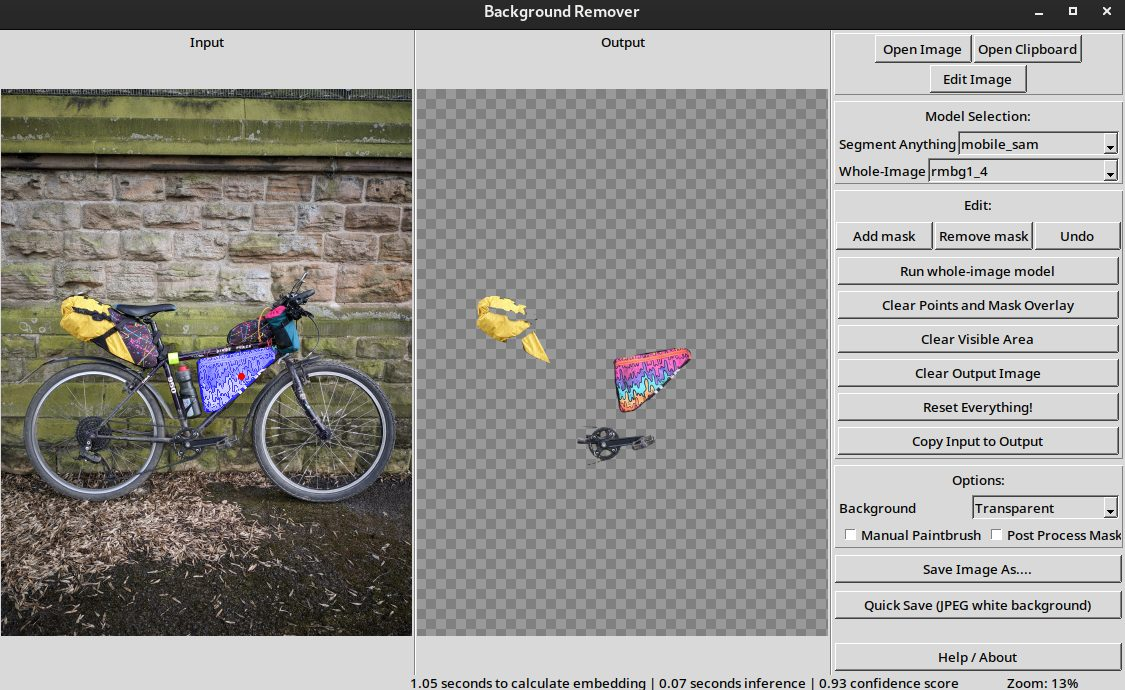
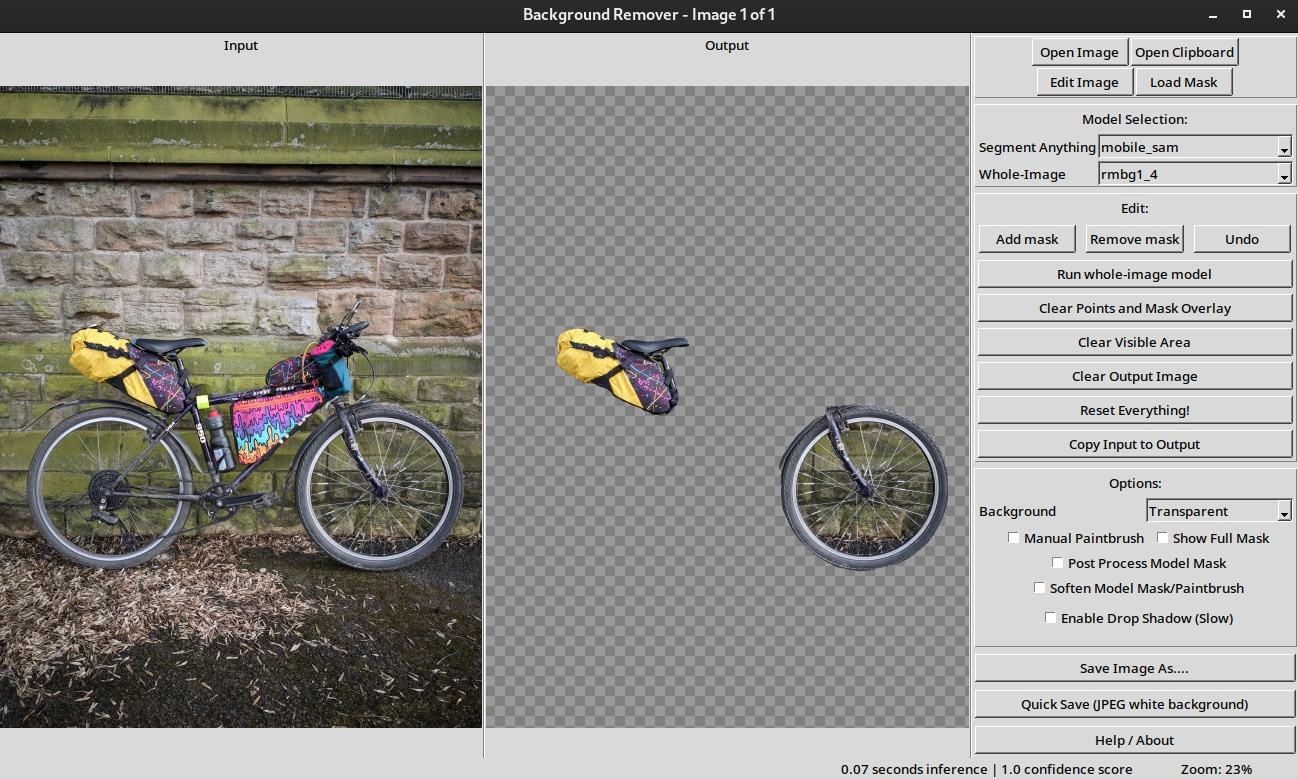
rmbg2 properly matched, better readme

diff --git a/backgroundremoval.py b/backgroundremoval.py
@@ -518,7 +518,7 @@ class BackgroundRemoverGUI:
         self.whole_image_combo.current(0)
         self.whole_image_button.configure(command = lambda: self.run_whole_image_model(None))
 
-        # will also match quantised versions .quant
+        # partial string match so will also match quantised versions e.g. rmbg2_quant_q4
         sam_models = [
             "mobile_sam",
             "sam_vit_b_01ec64",
@@ -528,8 +528,7 @@ class BackgroundRemoverGUI:
 
         whole_models = [
                 "rmbg1_4",
-                "rmbg1_4-quant",
-                "rmbg2_q8",
+                "rmbg2",
                 "isnet-general-use",
                 "isnet-anime",
                 "u2net",

diff --git a/README.md b/README.md
@@ -1,100 +1,60 @@
 # Interactive Image Background Remover
 
-A (work in progress) user interface for several background remover models, currently supporting onnx versions of u2net, disnet, rmbg, BiRefNet and interactive editing using Segment Anything (not V2 yet). Similar idea to Photoroom where you can just run the background remover model, or adjust the finer details by adding/removing points/areas/manual paintbrush.
+Interactive Background Remover is a user-friendly tool designed to remove backgrounds from images using a combination of interactive models (Segment Anything) and whole-image models (such as u2net, disnet, rmbg, and BiRefNet). This application provides a graphical interface where users can load an image, apply various models, and fine-tune the results to achieve precise background removal. Similar idea to the Photoroom app where you can refine your background removal, instead of just using the model outputs as-is
 
-Tested on Linux and Windows, but not Mac
+## Features
 
-You can use the python script or download binaries from the releases section. Linux and Windows builds have been tested, Mac has not.
+- **Interactive Model Support**: Utilize Segment Anything for detailed object selection by clicking or drawing boxes on the image.
+- **Whole-Image Model Support**: Apply models like u2net, disnet, rmbg, and BiRefNet for quick background removal across the entire image, which can be further refined.
+- **Zoom and Pan**: Zoom in on specific parts of the image and pan around for detailed editing. The models are only run on the viewed area so you can incrementally build up an image from higher resolution patches.
+- **Manual Paintbrush Mode**: Manually refine the background removal with a paintbrush tool for areas not covered by the models.
+- **Mask Refinement**: Smooth edges, filter anomalous areas and soften the mask for a natural look. You can directly edit the mask for high fidelity background removal.
+- **Drop Shadow**: Basic drop shadow effect for the cutout object.
+- **Background Options**: Choose from various background colors or apply a blurred background effect.
+- **Image Editing**: Includes a built-in image editor and cropper to preprocess images before background removal.
+- **Undo/Redo**
+- **Save Options**: Save the processed image in various formats (PNG, JPEG, WebP) with customizable quality settings.
+- **Clipboard Support**: Load images directly from the clipboard for quick editing.
+- **Windows, Linux and Mac Builds**: In the Github releases. Mac is currently untested, please let me know
 
 ![Screenshot of main window](Images/main_image.jpg)
 
-Load your image, and either run one of the whole image models (u2net, disnet, rmbg, BiRefNet) or click/draw a box to run Segment Anything. Left click is a positive point, right is a negative (avoid this area) point.
+## Installation
 
-The original image is displayed on the left, the current image you are working on is displayed to the right.
+### Prerequisites
 
-Press A to add the current mask to your image, Z to remove.
+- Python 3.x
+- Required Python packages: `tkinter`, `Pillow`, `scipy`, `numpy`, `onnxruntime`, `opencv-python`, `screeninfo`
 
-Scroll wheel to zoom, and middle click to pan around the image. The models will be applied only to the visible zoomed image, which enables much higher detail and working in finer detail than just running the models on the whole image
+```bash
+pip install tkinter Pillow scipy numpy onnxruntime opencv-python screeninfo
+```
 
-Use manual paintbrush mode to draw areas that you want to add/remove to the image without using a model.
-
-Post process mask removes the partial transparency from outputs of whole-image models. 
-
-Includes a built-in image editor and cropper. Loading this will reset your current working image. 
-
-![Screenshot of main window](Images/image_editor.jpg)
-
-Running the script from the command line with multiple images specified will load the images one after another for assisted batch usage.
-
-# Usage
-
-## Running
-
-`pip install` any missing packages or set up a new python environment, copy the background removal models you want to use into the Models folder (see model links below) then run `python backgroundremoval.py`. Any images supplied as arguments will be opened sequentially so you can work on the images in a batch, or it will open a file picker dialog to open a file if no arguements provided.
-
-## Mouse
-
-Left Mouse click: Add coordinate point for segment anything models
-
-Right Mouse click: Add negative coordinate (area for the model to avoid)
-
-Left click and drag: Draw box for segment anything models
-
-## Hotkeys:
-
-a : Add current mask to working image
-
-z : Remove current mask from working image
-
-q: Undo last action
-
-p : Manual paintbrush mode
-
-c : Clear current mask (and coordinate points)
-
-w : Reset the current working image
-
-r : Reset everything (image, masks, coordinates)
-
-v : Clear the visible area on the working image
-
-s : Save image as....
-
-j : Quick save JPG with white background
-
-_Run whole-image models (if downloaded to Models folder)_
-
-u : u2net
-
-i : disnet
-
-o : rmbg
-
-b : BiRefNet-general-bb_swin_v1_tiny-epoch_232
+Or download prebuilt executables for Windows, Linux and Mac from the [Github releases](https://github.com/pricklygorse/Interactive-Image-Background-Remover/releases) 
 
 
+## Model Downloads
 
-# Models
-
-Background removal models in onnx format can be downloaded from these locations:
+This application requires pre-trained background removal/segmentation models in onnx format to function correctly. Please download the necessary models and place them in the Models/ directory. The script checks for models at each start up. 
 
 **Interactive Models**
 - Segment Anything + mobile-sam: [https://huggingface.co/vietanhdev/segment-anything-onnx-models/tree/main](https://huggingface.co/vietanhdev/segment-anything-onnx-models/tree/main)
 
-I recommend using mobile-sam as it has near instant inference results, and you can zoom into the image for higher resolution masks.
+I recommend just using mobile-sam as it has near instant inference results, and you can zoom into the image for higher resolution masks. I haven't found much benefit to using the larger models.
+
+If using quantised Segment Anything models, these require the .quant suffix before .encoder in the filename, which is the opposite of how they are named when downloaded from the links above.
 
 **Whole Image Models**
 - rembg: [https://huggingface.co/briaai/RMBG-1.4/tree/main/onnx](https://huggingface.co/briaai/RMBG-1.4/tree/main/onnx)
+
+   - Please rename model.onnx to rmbg1_4.onnx
+
 - u2net, disnet, BiRefNet, Segment Anything, and more: [https://github.com/danielgatis/rembg/releases/tag/v0.0.0](https://github.com/danielgatis/rembg/releases/tag/v0.0.0)
+- rmbg2: [https://huggingface.co/briaai/RMBG-2.0/tree/main/onnx](https://huggingface.co/briaai/RMBG-2.0/tree/main/onnx)
+   - Please rename model.onnx to rmbg2.onnx, or the quantised versions to rmbg2_q4.onnx etc
 
-Place the models (or symlinks if located elsewhere) in the Models folder. The script checks for models at each start up. 
-
-If using quantised Segment Anything models, these require the .quant suffix before .encoder in the filename, which is the opposite of how they are downloaded from the links above.
-
-The following models are hardcoded, simply add to this section in the python script if you want to include a different model.
-
-``` python
-# will also match quantised versions .quant
+```python
+# partial string match so will also match quantised versions e.g. rmbg2_quant_q4
 sam_models = [
             "mobile_sam",
             "sam_vit_b_01ec64", 
@@ -104,15 +64,88 @@ sam_models = [
 
 whole_models = [
         "rmbg1_4",
-        "rmbg1_4-quant",
+        "rmbg2",
         "isnet-general-use",
         "isnet-anime",
         "u2net",
+        "u2net_human_seg",
         "BiRefNet", # matches all birefnet variations
 ]
 ```
 
+## Usage
 
+### Launching the Application
+
+Run the rebuilt executables: [Github releases](https://github.com/pricklygorse/Interactive-Image-Background-Remover/releases) 
+
+Run the script from the command line:
+
+```bash
+python interactive_background_remover.py
+```
+
+You can also provide image file paths as command-line arguments to load them directly:
+
+```bash
+python interactive_background_remover.py image1.jpg image2.png
+```
+
+
+### Interface Overview
+
+- **Input Canvas**: Displays the original image.
+- **Output Canvas**: Displays the processed image with the background removed.
+- **Controls Panel**: Contains various tools and options for interacting with the image and models.
+
+### Basic Workflow
+
+1. **Load Image**: Click "Open Image" to load an image file or "Open Clipboard" to use an image from the clipboard.
+2. **Select Model**: Choose a model from the "Model Selection" section.
+3. **Zoom and Pan**: Use the full image or zoom into region of interest (arrow keys or middle mouse to pan, mouse scroll to zoom)
+4. **Generate Background Removal Mask**:
+   - **Interactively: Segment Anything**: Left-click to add a positive point, right-click to add a negative (exclusion) point, or drag to draw a box around the object.
+   - **Whole-Image Models**: Click "Run whole-image model" to apply the selected model to the entire image (or zoomed area).
+5. **Refine Background Removal Mask**:
+   - Use the "Add mask" and "Remove mask" buttons to add the model output to the background removal mask.
+   - Toggle "Manual Paintbrush" mode to manually edit the mask.
+   - Check "Post Process Model Mask" (binarise the mask and smooth edges) and "Soften Model Mask/Paintbrush" to adjust the model output
+   - Use Show Full Mask to edit the mask directly instead of the output image
+6. **Adjust Background**: Select a background color or enable the "Blurred" option for a blurred background.
+7. **Save Image**: Click "Save Image As...." to save the processed image.
+
+
+
+### Hotkeys
+
+- `a`: Add current mask to the output image.
+- `z`: Remove current mask from the output image.
+- `q`: Undo the last action.
+- `p`: Toggle manual paintbrush mode.
+- `c`: Clear current mask and coordinate points.
+- `w`: Reset the current working image.
+- `r`: Reset everything (image, masks, coordinates).
+- `v`: Clear the visible area on the working image.
+- `s`: Save as....
+- `j`: Quick save JPEG with a white background.
+- `u`: Run u2net model.
+- `i`: Run disnet model.
+- `o`: Run rmbg1.4 model.
+- `b`: Run BiRefNet model.
+- `Left`, `Right`, `Up`, `Down`: Pan the image.
+
+
+### Image Editing
+
+Click "Edit Image" to open the built-in image editor, where you can crop, rotate, and adjust various image parameters like brightness, contrast, saturation, and white balance.
+
+![Screenshot of main window](Images/image_editor.jpg)
+
+
+## Troubleshooting
+
+- **No models found**: Ensure that the required models are downloaded and placed in the `Models/` directory.
+- **Performance issues**: Zooming out can be laggy, especially with multiple scroll wheel clicks and multiple effects applied such as blurred background and drop shadow.
 
 # Support Me
 
